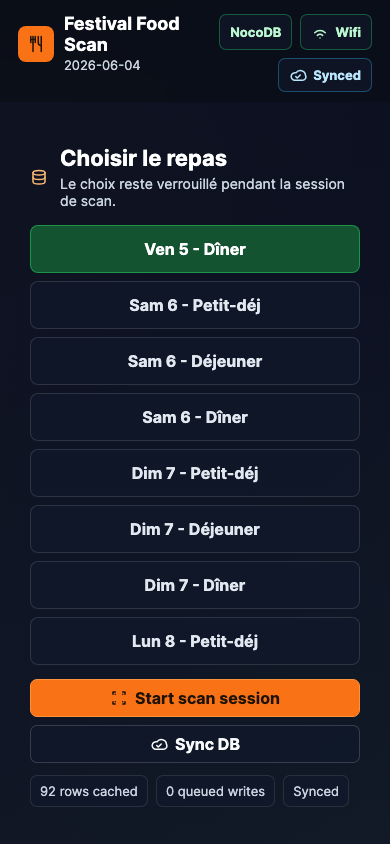
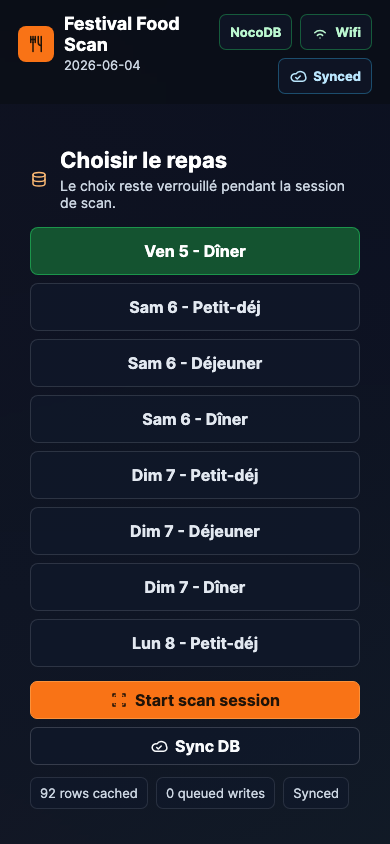
Remove duplicate scan sync control

diff --git a/src/App.tsx b/src/App.tsx
@@ -2,9 +2,7 @@ import {
   ArrowLeft,
   CheckCircle2,
   CircleDollarSign,
-  Cloud,
   CloudCheck,
-  CloudOff,
   CloudUpload,
   DatabaseZap,
   Loader2,
@@ -322,10 +320,16 @@ function App() {
             <NetworkIcon size={15} aria-hidden="true" />
             {networkLabel}
           </span>
-          <button className={`status-pill sync ${pendingCount > 0 ? 'queued' : 'synced'}`} type="button" onClick={() => void syncQueuedWrites(true)}>
+          <span className={`status-pill sync ${pendingCount > 0 ? 'queued' : 'synced'}`} aria-label={`Sync status: ${syncLabel}`}>
             <SyncIcon size={15} aria-hidden="true" />
             {syncLabel}
-          </button>
+          </span>
+          {sessionState === 'scanning' && (
+            <button className="secondary-action top-exit" type="button" onClick={leaveSession}>
+              <ArrowLeft size={15} aria-hidden="true" />
+              Leave
+            </button>
+          )}
         </div>
       </header>
 
@@ -385,17 +389,6 @@ function App() {
           </section>
 
           <aside className="status-dock" aria-live="polite">
-            <div className="session-row">
-              <button className="secondary-action compact" type="button" onClick={leaveSession}>
-                <ArrowLeft size={17} aria-hidden="true" />
-                Leave session
-              </button>
-              <button className="secondary-action compact" type="button" onClick={() => void syncQueuedWrites(true)}>
-                {pendingCount > 0 ? <CloudOff size={17} aria-hidden="true" /> : <Cloud size={17} aria-hidden="true" />}
-                {syncLabel}
-              </button>
-            </div>
-
             <div className={`result-strip ${currentScan ? currentStatus : 'idle'}`}>
               <span className="result-icon">
                 <CurrentIcon size={22} aria-hidden="true" />

diff --git a/src/App.css b/src/App.css
@@ -150,7 +150,7 @@ h1 {
 }
 
 .status-pill.sync {
-  cursor: pointer;
+  cursor: default;
 }
 
 .status-pill.sync svg {
@@ -298,6 +298,11 @@ button {
 }
 
 .secondary-action.compact {
+  min-height: 34px;
+  padding: 0 10px;
+}
+
+.secondary-action.top-exit {
   min-height: 34px;
   padding: 0 10px;
 }
@@ -474,7 +479,7 @@ button {
 }
 
 .session-row {
-  justify-content: space-between;
+  justify-content: flex-start;
   gap: 8px;
   margin-bottom: 8px;
 }
@@ -680,7 +685,7 @@ button {
 
   .session-row {
     display: grid;
-    grid-template-columns: 1fr 1fr;
+    grid-template-columns: 1fr;
   }
 
   .result-strip {
